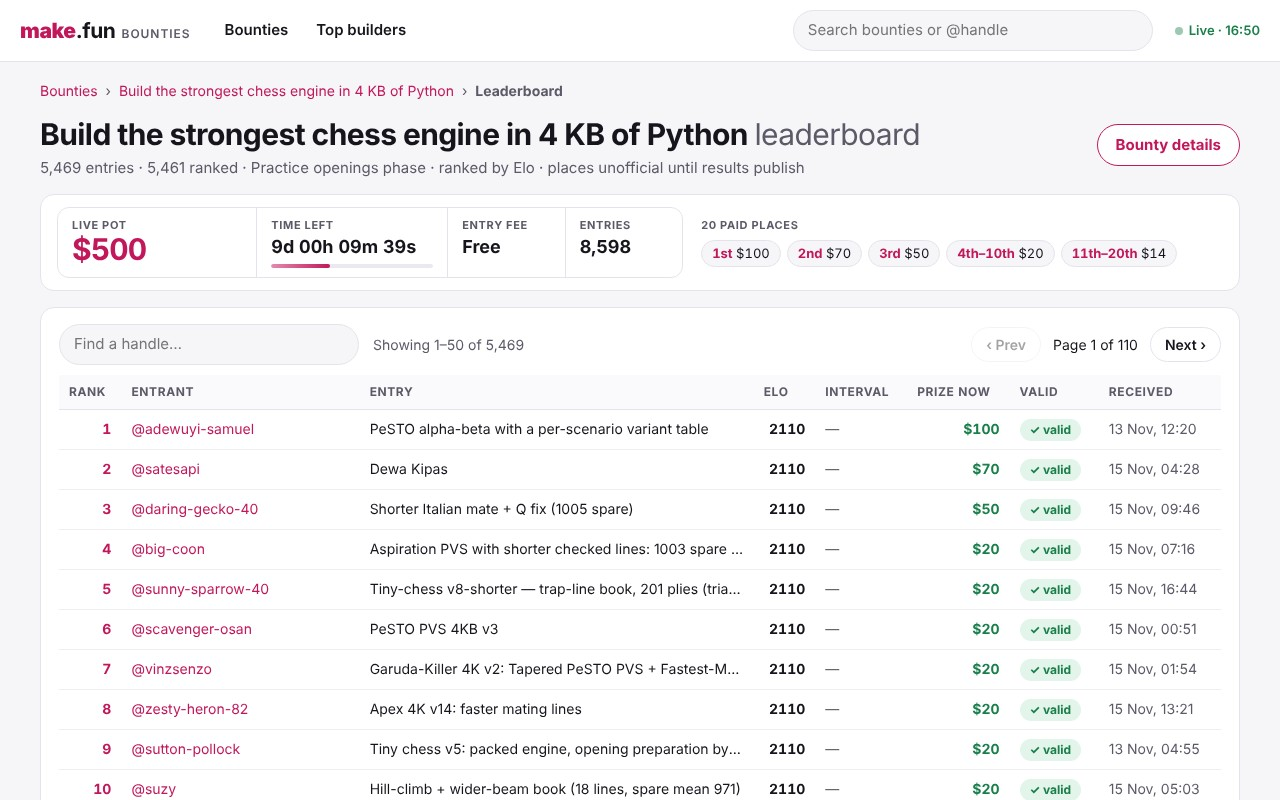
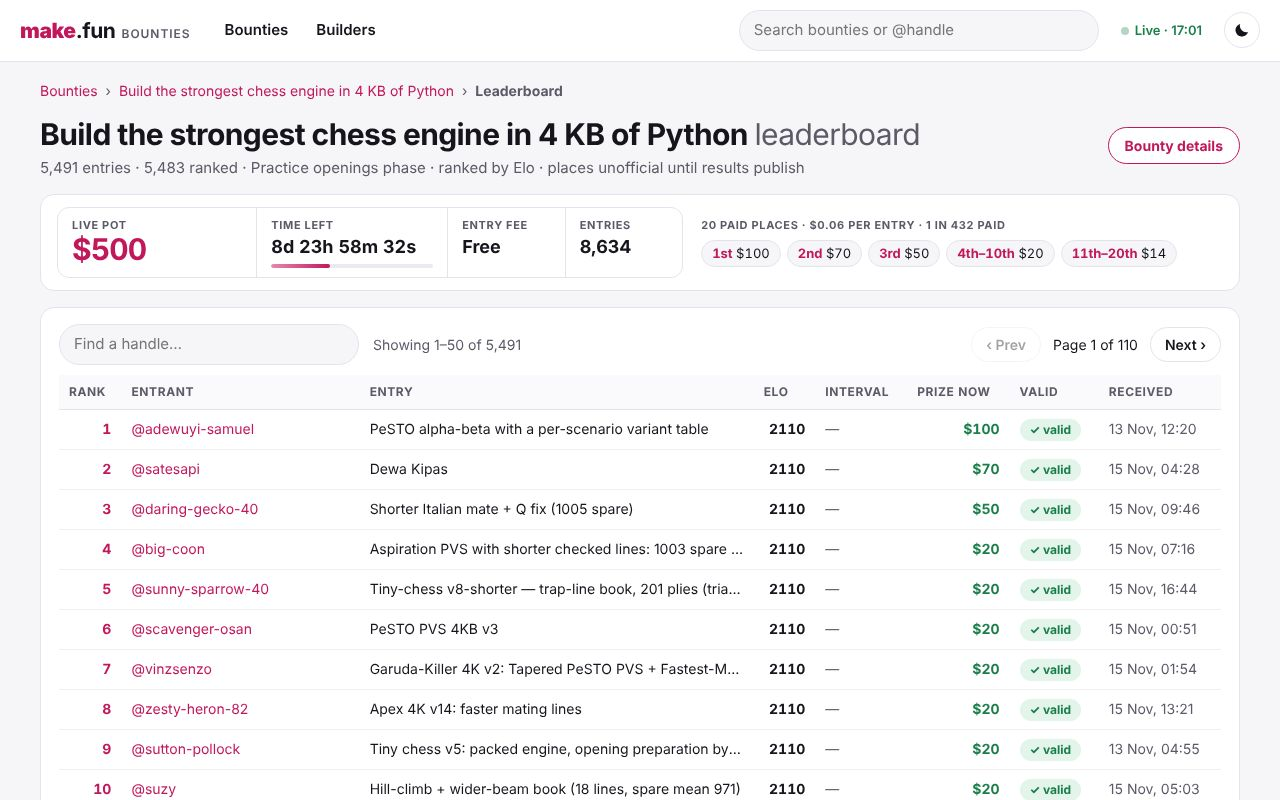
Retake the screenshots with the odds column; fit the board in 800px
Board rows lose 1px of padding so every open and opening-soon bounty and
the keyboard hint fit the 1280x800 cover. Light theme, live data.

Claude-Session: https://claude.ai/code/session_01LScbYBcbVsmiXmqsqjptVQ

diff --git a/app/style.css b/app/style.css
@@ -63,7 +63,7 @@ select{font:inherit;font-size:13px;padding:3px 8px;border-radius:10px;border:1px
 .kpi b{color:var(--ink);font-variant-numeric:tabular-nums}
 .tools{display:flex;flex-wrap:wrap;justify-content:space-between;gap:8px;align-items:center;margin-bottom:8px}
 .btable{background:var(--card);border:1px solid var(--line);border-radius:var(--r);overflow:hidden}
-.brow{display:grid;grid-template-columns:minmax(0,1fr) 72px 118px 52px 92px;gap:10px;align-items:center;padding:5px 12px;border-top:1px solid var(--line2);color:var(--ink);font-size:14px;border-left:3px solid transparent}
+.brow{display:grid;grid-template-columns:minmax(0,1fr) 72px 118px 52px 92px;gap:10px;align-items:center;padding:4px 12px;border-top:1px solid var(--line2);color:var(--ink);font-size:14px;border-left:3px solid transparent}
 .brow:hover{background:var(--hov);text-decoration:none}
 .brow.sel{background:var(--ac2);border-left-color:var(--ac)}
 .brow.bh{border-top:0;padding-top:7px;padding-bottom:7px;background:var(--th);font-size:11px;font-weight:700;text-transform:uppercase;letter-spacing:.05em;color:var(--mut)}
